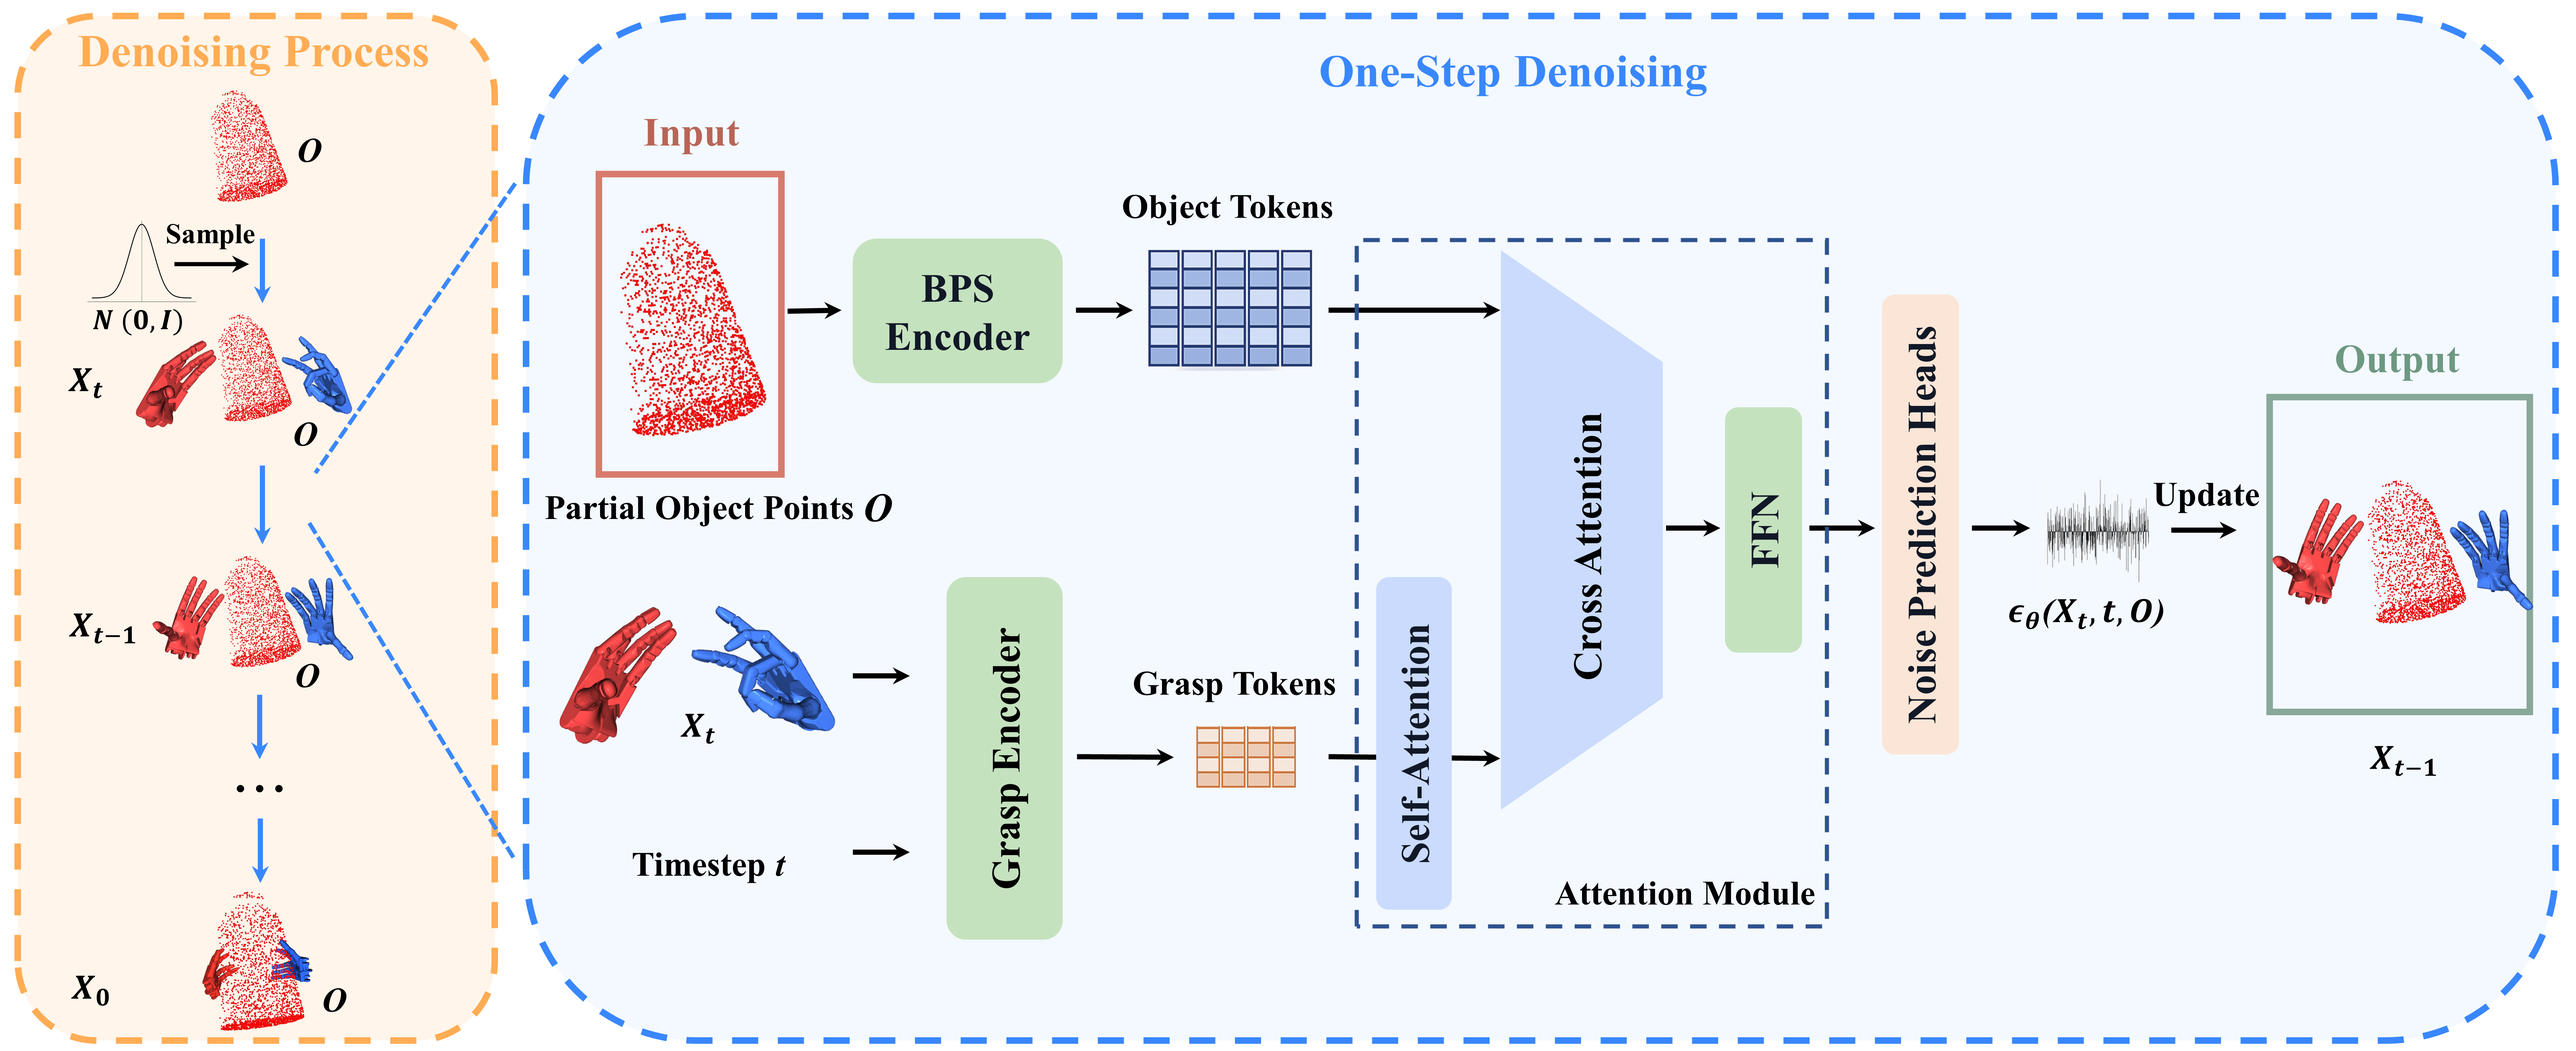
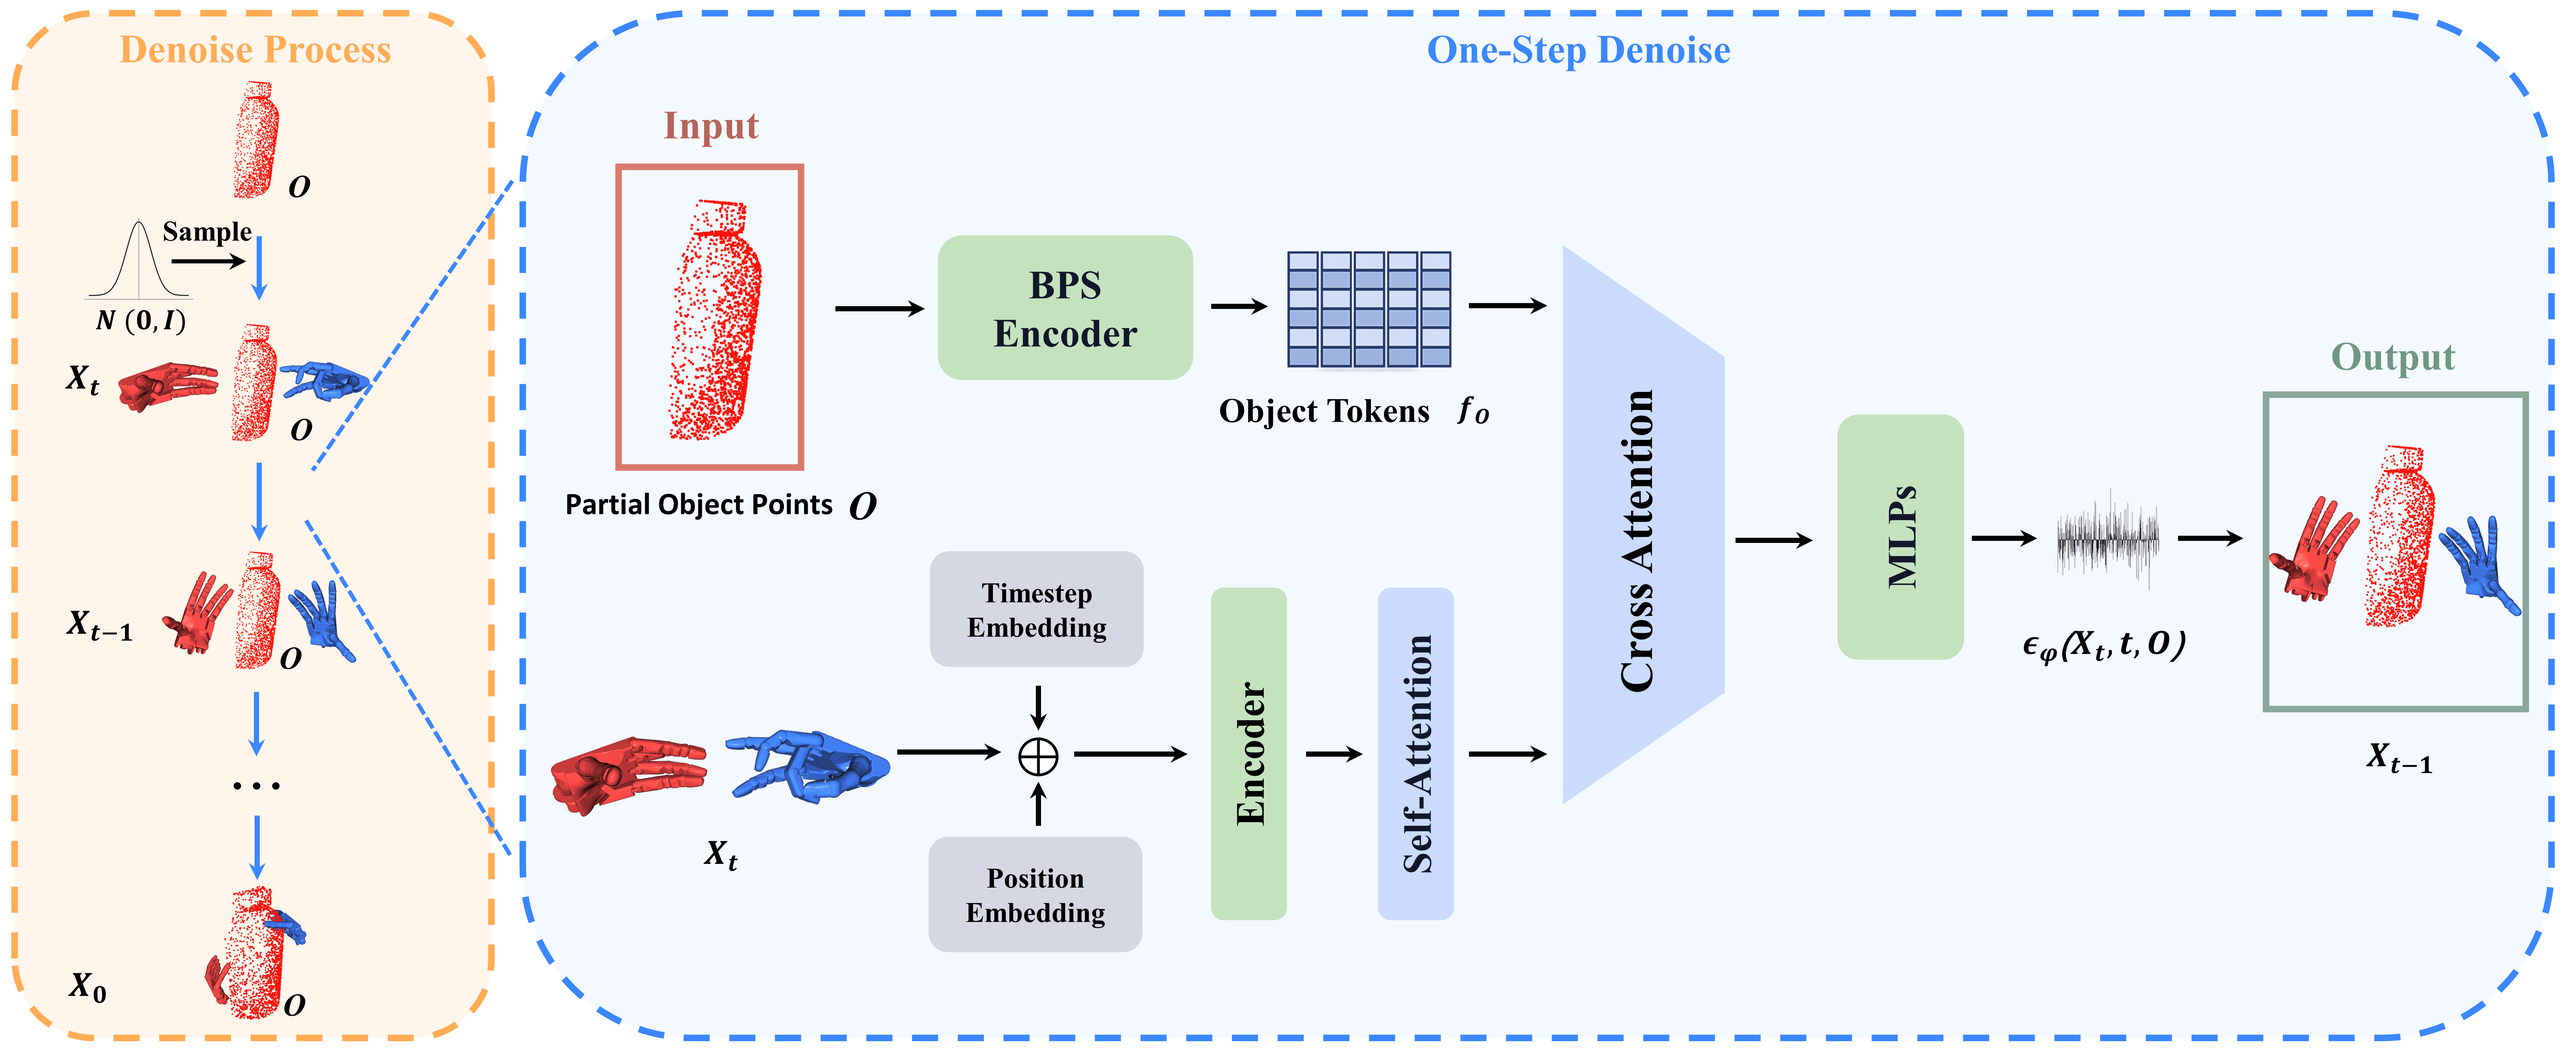
update

diff --git a/index.html b/index.html
@@ -405,7 +405,7 @@
             <figure style="display: flex; flex-direction: column; align-items: center;">
               <img src="./static/image/BiDexGen.png" alt="BiDexGen" style="width: 100%; max-width: 1400px;">
               <figcaption class="figure-caption">
-                Architecture of BiDexGen: Left: BiDexGen iteratively denoises a bimanual grasp from Gaussian noise conditioned on the partial object observation $O$. Right: At timestep $t$, the BPS encoder converts $O$ into object tokens, while the grasp encoder maps the noisy grasp $X_t$ and timestep $t$ into time-conditioned grasp tokens. The attention module applies self-attention to the grasp tokens, cross-attention with the object tokens, and an FFN for feature processing. The noise prediction heads then estimate $\epsilon_\theta(X_t,t,O)$, which is used in the DDPM reverse update to obtain $X_{t-1}$. Repeating this process yields the final bimanual grasp configuration $X_0$.
+                Fig. 3. Architecture of BiDexGen. Left: The iterative reverse diffusion process, which transforms Gaussian noise $X_T^{\mathrm{diff}}$ into a bimanual grasp $X_0$ conditioned on the partial object point cloud $O$. Right: One-step denoising details. The BPS encoder converts $O$ into object tokens $f_O$. The noisy grasp $X_t$ is combined with timestep and position embeddings, encoded, and processed by self-attention and cross-attention with $f_O$. The resulting features are passed through MLPs to predict $\epsilon_\theta(X_t,t,O)$, from which the DDPM update computes $X_{t-1}$.
               </figcaption>
             </figure>
           </div>
@@ -556,7 +556,7 @@
                 <br>
                 For questions, please contact
                 Haoliang Xu at
-                <a href="mailto:harlandhsu@gmail.com">harlandhsu@gmail.com</a>
+                <a href="mailto:haolianghsu@gmail.com">haolianghsu@gmail.com</a>
                 or Zexiang Guo at
                 <a href="mailto:arickguo@gmail.com">arickguo@gmail.com</a>.
                 <br>
